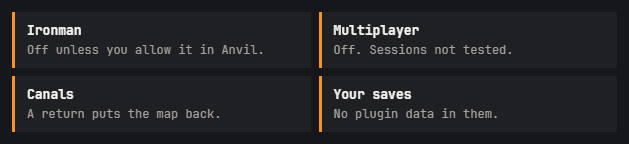
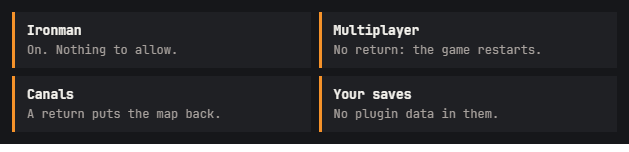
docs(hamweard): the plugin runs in ironman by default

Changed region(s): [[0.5135, 0.2895, 0.876, 0.3684], [0.0302, 0.2895, 0.2114, 0.3684], [0.2719, 0.2895, 0.4229, 0.3684]]

diff --git a/src/content/plugins/hamweard.md b/src/content/plugins/hamweard.md
@@ -5,7 +5,7 @@ tagline: Takes you from a campaign back to the main menu in seconds, without res
 repo: https://github.com/happy-dwarf-team/hamweard
 status: released
 gameBuilds: ['eu4-1.37.5-steam-win64', 'eu4-1.37.5.2-gog-win64']
-affectsGameplay: true
+affectsGameplay: false
 order: 30
 workshop: '3832650792'
 manifestPath: plugin.toml
@@ -31,27 +31,30 @@ Hamweard needs [Anvil](../../docs/install/) 1.9 or newer. Hamweard 1.0 needed 1.
 
 ## Settings
 
-Hamweard has no settings of its own. To use it in ironman, tick **Allow in ironman** on the
-Manager's **Plugins** tab, or add it to `allow_ironman` in
-[`anvil/anvil.toml`](../../docs/using-anvil/#anvils-settings-file).
+Hamweard has no settings of its own. It works in ironman with nothing to allow. An
+`allow_ironman` entry for it in [`anvil/anvil.toml`](../../docs/using-anvil/#anvils-settings-file)
+no longer does anything.
 
 ## Limitations
 
-- **It can affect gameplay.** The next campaign starts in the same process instead of a fresh one,
-  so anything the game's reset leaves behind could change it. In the lab a save made after three
-  returns matched one from a fresh process, apart from the campaign id and the random seed. A new
-  campaign after a return matched a fresh one with Anbennar too, and after a save with canals.
+- **A return does not change the simulation.** The next campaign starts in the same process
+  instead of a fresh one, and in the lab a save made after three returns matched one from a fresh
+  process, apart from the campaign id and the random seed. A new campaign after a return matched a
+  fresh one with Anbennar too, and after a save with canals. That is a comparison of the campaigns
+  and mods tested, not a proof for every mod.
 - **Canals.** A canal changes the map itself, and the map outlives the campaign. The plugin copies
   the map before the first canal and puts it back on a return. If it cannot be put back, that
   return restarts the game, as it does without the plugin.
-- **Multiplayer: off, and sessions not tested.** Exit to Menu and Back restart the game in any
-  multiplayer session, as they do without the plugin. That comes from reading the game's code: no
-  lobby was hosted or joined, so the Steam lobby clean-up from the original has never run.
+- **Multiplayer: no return, and sessions not tested.** Exit to Menu and Back restart the game in
+  any multiplayer session, as they do without the plugin. The plugin checks that itself and stays
+  loaded. That comes from reading the game's code: no lobby was hosted or joined, so the Steam
+  lobby clean-up from the original has never run.
 - **Multiplayer after a campaign needs a restart.** With a Paradox session online, the game asks
   for one after the single player screen, and a return keeps that request.
-- **Ironman: off unless you allow it.** Allowed, it worked on Steam and GOG, the save on leaving
-  included. Without it Exit to Menu restarts the game. An ironman save does not update
-  Continue game, so load it from the Single Player list.
+- **Ironman: on, with nothing to allow.** It works on Steam and GOG, the save on leaving included,
+  and a new ironman campaign after a return says achievements can be earned. No achievement has
+  been earned in a test yet: the proof comes from the game's own state, not from Steam. An ironman
+  save does not update Continue game, so load it from the Single Player list.
 - **Mods: tested, not all of them.** The plugin changes no game files, so the checksum stays the
   same. Anbennar with Proper 2K UI and a playset of ten interface and graphics mods ran without
   trouble. A mod that does something unusual when a campaign ends may behave differently.
@@ -72,7 +75,7 @@ plugin chose a restart, and why.
 
 | What you see | Why | What to do |
 | --- | --- | --- |
-| Exit to Menu or Back restarts the game | The plugin is not loaded, or Anvil suspended it | Check in the Anvil panel that Hamweard is loaded and approved. In ironman, [allow it](#settings). |
+| Exit to Menu or Back restarts the game | The plugin is not loaded | Check in the Anvil panel that Hamweard is loaded and approved. |
 | The same, and the log says `the map could not be put back` | A canal changed the map and the saved copy no longer fits it | Nothing to fix: a campaign does not start on the changed map, so the plugin restarts the game. |
 | The same, and the log says `multiplayer` | A multiplayer session ends with a restart | Expected. |
 | Anvil refuses to load Hamweard | Another game build, or the original EU4 Menu Patch changed the same code | Use a supported build, and remove the Menu Patch DLL. |
@@ -92,14 +95,16 @@ All runs were in the lab on one development machine. The
   4.5 seconds each, no crash.
 - **Hamweard 1.1.0 from the release** (4 November 2026): 66 returns in eight game runs, no crash.
   They covered new games, saves and loads after a return, changing country, naval battles, the
-  Game Browser, ironman when allowed, on Steam and GOG, and Anbennar (returns in 5.5 to 6.6
-  seconds).
+  Game Browser, ironman, on Steam and GOG, and Anbennar (returns in 5.5 to 6.6 seconds).
 - **The same seed** gave the same new campaign byte by byte, the campaign id apart, in a fresh
   process and after returns, without Anbennar (4 November 2026), and with Anbennar and after a save
   with canals, on Steam and GOG (5 November 2026).
 - **The achievement list** (4 November 2026): 27 returns in one process, no restart and no crash.
   After a return the list stayed empty. An ironman save loaded afterwards had its 52 achievements,
   and a new ironman campaign said achievements can be earned.
+- **Ironman by default** (5 November 2026): no `anvil.toml` entry, no warning, achievements can be
+  earned and a return needs no restart, on Steam and GOG. On GOG a month of play after a return ran
+  the game's achievement check on all 175 achievements, as in a fresh process.
 
 Before the plugin destroyed the windows of the last campaign, the game crashed in the second to
 fourth campaign of such a series.

diff --git a/src/content/docs/docs/multiplayer-ironman.md b/src/content/docs/docs/multiplayer-ironman.md
@@ -13,7 +13,7 @@ gameplay, and Anvil acts on that.
 | --- | --- | --- | --- |
 | [Bellows](../../plugins/bellows/) | No | Stays on, tested on the host only | Stays on |
 | [Mei](../../plugins/mei/) | No | Stays on, not tested | Stays on |
-| [Hamweard](../../plugins/hamweard/) | Yes | Off | Off, unless you allow it |
+| [Hamweard](../../plugins/hamweard/) | No | Stays on, restarts as usual, not tested | Stays on |
 | [Tongs](../../plugins/tongs/) | Yes | Off, unless you allow it | Off, unless you allow it |
 | Standard plugins (`anvil-game`, `anvil-overlay`, `anvil-log-throttle`) | No | Stay on | Stay on |
 
@@ -22,8 +22,8 @@ gameplay, and Anvil acts on that.
   are not tested.
 - **Mei in multiplayer:** every player needs the same mods anyway, and a player without Mei
   sees names written with it wrongly.
-- **Hamweard in multiplayer:** Exit to Menu restarts the game as usual. That comes from reading the
-  game's code: no session was run.
+- **Hamweard in multiplayer:** Exit to Menu restarts the game as usual, by the plugin's own check.
+  That comes from reading the game's code: no session was run.
 
 Each plugin's page has the details and the source of each test.
 
@@ -35,7 +35,7 @@ runs, and puts them back afterwards. The log says
 there: tick it on the Manager's **Plugins** tab, or edit `anvil/anvil.toml`:
 
 ```toml
-allow_ironman = ["hamweard"]
+allow_ironman = ["tongs"]
 allow_multiplayer = []
 ```
 
@@ -50,13 +50,13 @@ team's plugin mods are published with a check that refuses such a change.
 In one test (EU4 1.37.5 from Steam, Anvil 0.2 with a plugin in the game folder, and a mod that
 holds only an `anvil/` folder), the checksum in the main menu stayed the vanilla one, and a new
 ironman game did not name a modified game. On 4 November 2026, with Anvil 1.9 and Hamweard
-allowed in ironman, two new ironman games in a row showed that achievements can be earned.
+in ironman, two new ironman games in a row showed that achievements can be earned.
 
 ## What has not been tested
 
 - No achievement has been earned in a full ironman campaign with Anvil yet.
-- Anvil's suspension has been seen in a live ironman game (Hamweard, 4 November 2026), not yet
-  in a live multiplayer session.
+- Anvil's suspension has been seen in a live ironman game (Hamweard 1.1.0, 4 November 2026), not
+  yet in a live multiplayer session.
 - Multiplayer has been tested only with Bellows 0.17.0 on the host.
 
 If you play these and something goes wrong, or goes right where we say "not tested",

diff --git a/src/content/docs/docs/using-anvil.md b/src/content/docs/docs/using-anvil.md
@@ -119,7 +119,7 @@ a game session starts, and plugins that depend on it are skipped without it.
 enabled = true                # false starts the game without plugins
 disabled_plugins = ["bellows"]
 log_level = "info"            # "debug", "info", "warning" or "error"
-allow_ironman = ["hamweard"]  # plugins you allow in ironman
+allow_ironman = ["tongs"]     # plugins you allow in ironman
 allow_multiplayer = []        # plugins you allow in multiplayer
 ```
 
